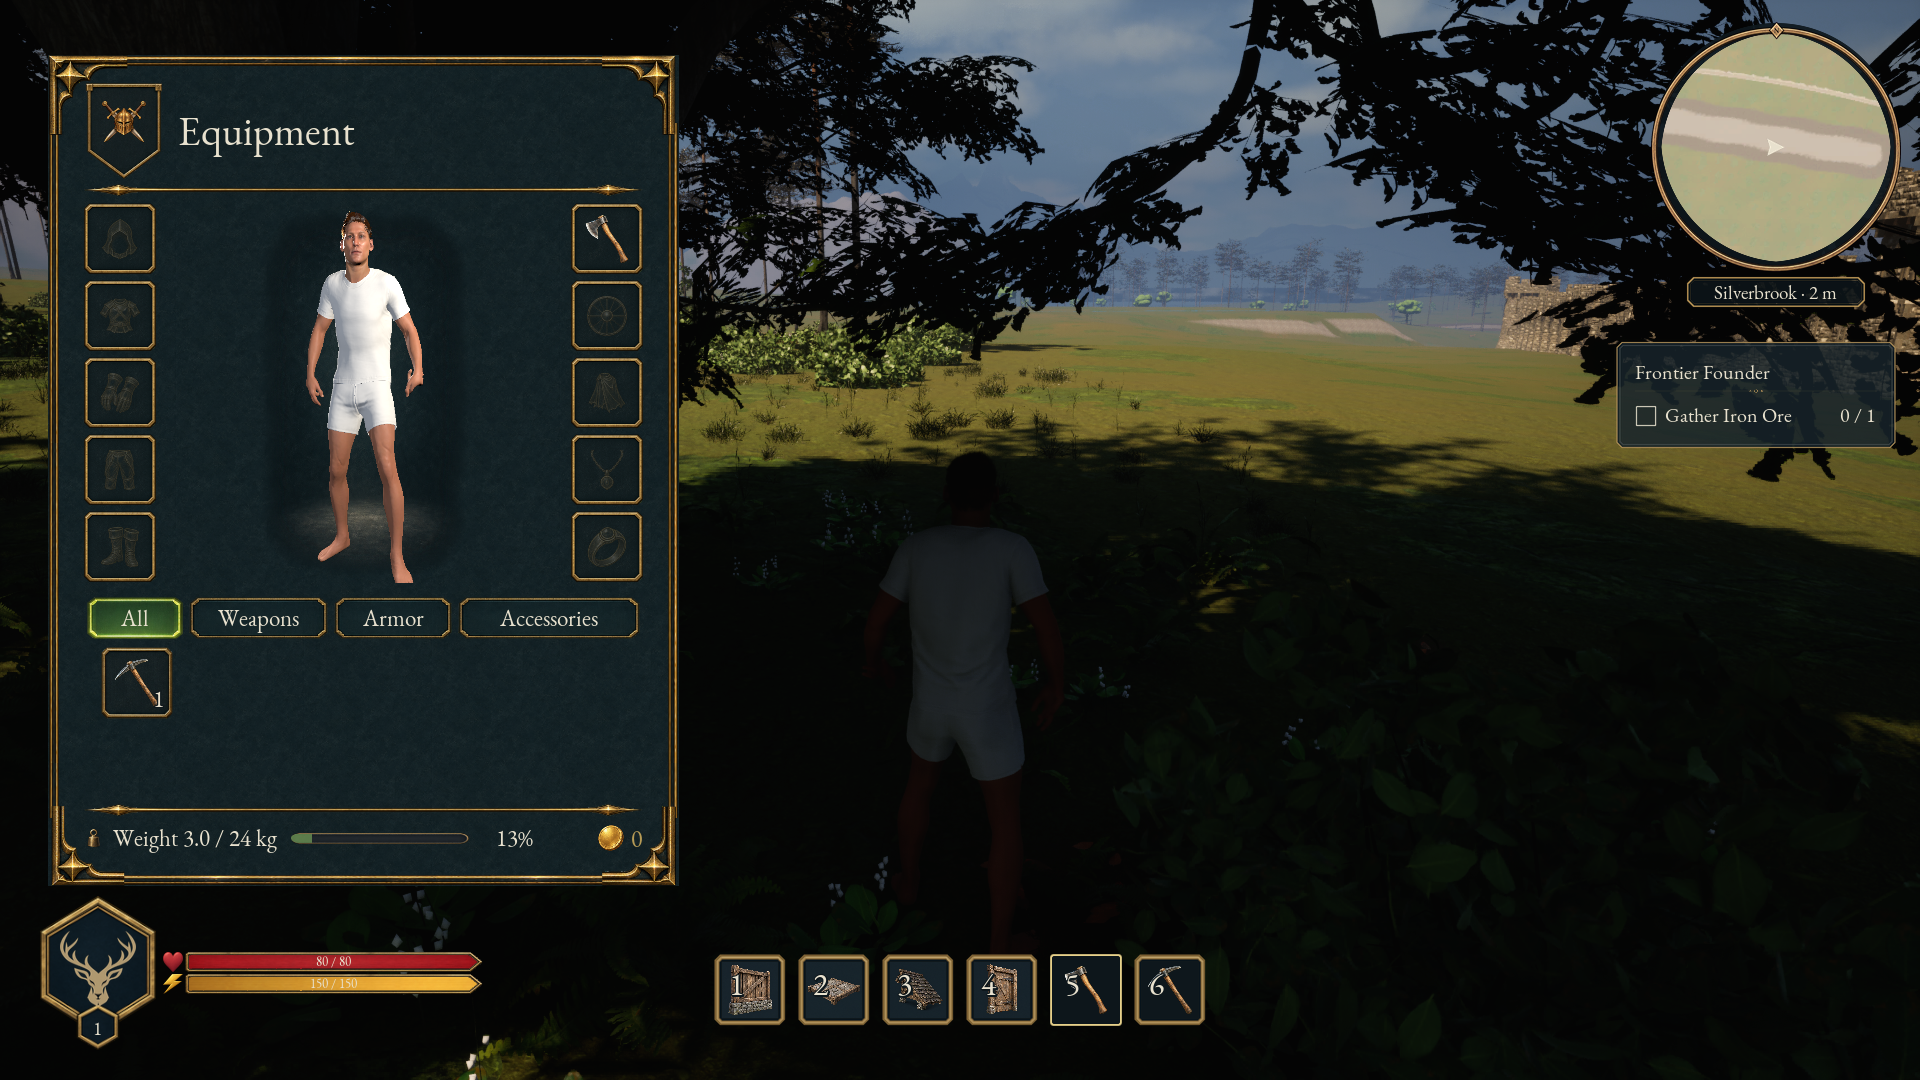
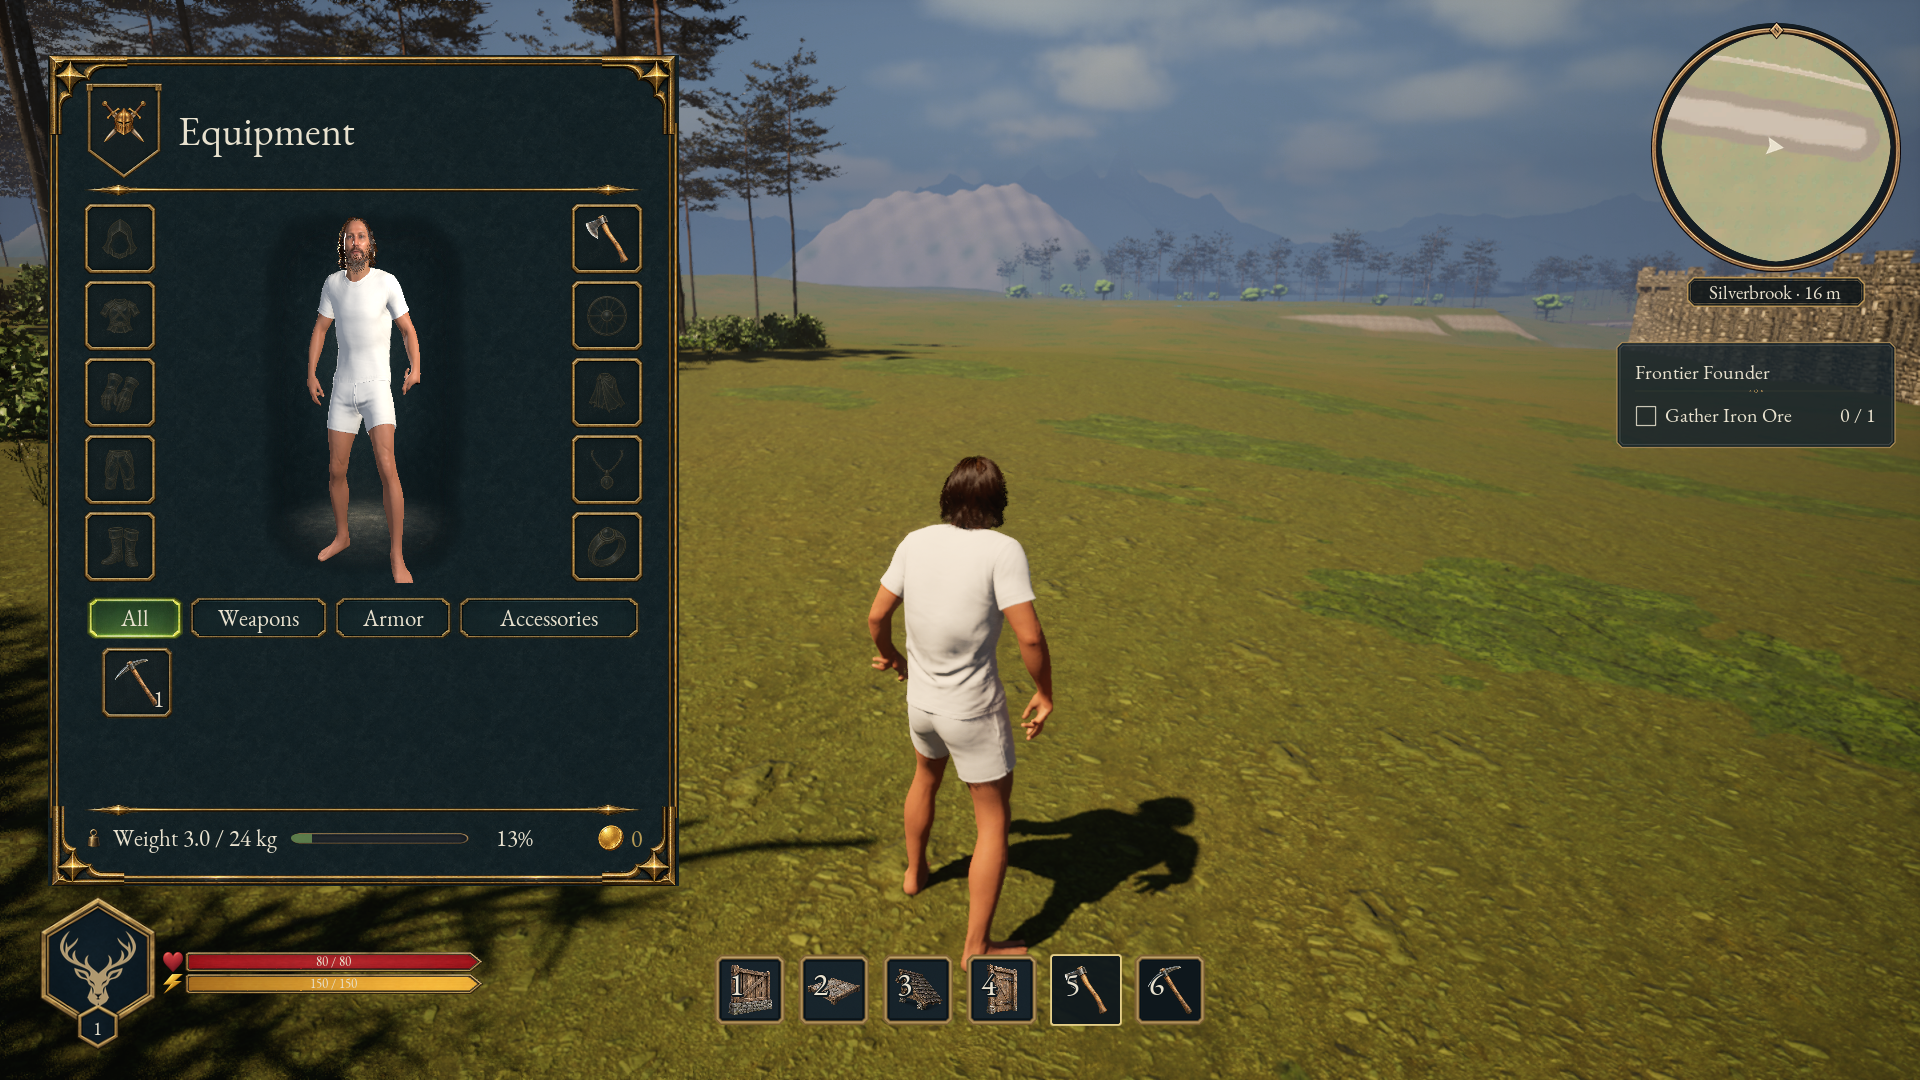
Player faces: hero art direction, 10 generated hero portraits, beard and mustache grooms
- Owner direction: early-medieval Anglo-Saxon / Northern European heroes. Per gender, all faces are
  Caucasian except one light-skinned Black hero. Stock presets that don't fit are out.
- heroes/: 10 Codex-generated front-facing reference portraits (5 men, 5 women) plus a contact
  sheet, the inputs for custom MetaHuman faces (portrait -> Pixal3D head -> MetaHuman conform).
- Build-PlayerMetaHumans.py: faces.json can name hair, beard and mustache wardrobe items; unlisted
  facial hair is cleared. Orlando rebuilt with Hair_M_Layered, Beard_L_Full and Mustache_L_Full.

diff --git a/tools/Build-PlayerMetaHumans.py b/tools/Build-PlayerMetaHumans.py
@@ -5,9 +5,9 @@ fails with "Couldn't find baked texture"). Run it from PowerShell:
   UnrealEditor.exe <uproject> -RenderOffscreen -unattended -nosplash -ExecCmds="py <abs path of this file>"
 It starts on the editor's first tick, builds, then quits the editor.
 
-Reads GameClient/ArtSource/Characters/Player/faces.json ({"faces": [{"id", "preset", "gender", "hair"}]}).
-Each face's preset is copied to /Game/Frontier/Characters/Player/Faces/MHC_<id> and given its hair (a WI_Hair_* wardrobe
-item). MetaHuman's cloud auto-rig and texture download run only when the copy cannot build yet (they use the editor's
+Reads GameClient/ArtSource/Characters/Player/faces.json ({"faces": [{"id", "preset", "gender", "hair", "beard", "mustache"}]}).
+Each face's preset is copied to /Game/Frontier/Characters/Player/Faces/MHC_<id> and given its grooms (WI_* wardrobe
+items). MetaHuman's cloud auto-rig and texture download run only when the copy cannot build yet (they use the editor's
 signed-in Epic account). The optimized, medium-quality assembly goes to /Game/Frontier/Characters/Player/Built/MHC_<id>,
 with shared assets in .../Built/Common. Env SF_FACES=<id,id> limits the run. Logs PLAYER_METAHUMAN_BUILT / _FAILED.
 """
@@ -19,7 +19,7 @@ import unreal
 
 ROOT = '/Game/Frontier/Characters/Player'
 PRESETS = '/MetaHumanCharacter/Optional/Presets'
-HAIR = '/MetaHumanCharacter/Optional/Grooms/Bindings/Hair'
+GROOMS = '/MetaHumanCharacter/Optional/Grooms/Bindings'
 
 
 def build_face(face, subsystem, library):
@@ -30,14 +30,17 @@ def build_face(face, subsystem, library):
         raise RuntimeError(f"Could not copy preset {face['preset']} to {path}")
     instance = character.internal_collection.default_instance
     if fresh:
-        # The face's own grooms: its hair replaces the preset's, and facial hair is cleared unless the face lists it.
-        for slot in ('Beard', 'Mustache'):
-            if slot in [str(s) for s in character.internal_collection.get_slot_names()] and not face.get(slot.lower()):
-                instance.set_single_slot_selection(slot, unreal.MetaHumanPaletteItemKey())
-        if face.get('hair'):
-            item = library.load_asset(f"{HAIR}/{face['hair']}")
-            key = character.internal_collection.try_add_item_from_wardrobe_item('Hair', item)
-            instance.set_single_slot_selection('Hair', key)
+        # The face's own grooms replace the preset's: "hair", "beard", "mustache" name WI_* wardrobe items; a slot not listed is cleared.
+        slots = [str(s) for s in character.internal_collection.get_slot_names()]
+        for slot in ('Hair', 'Beard', 'Mustache'):
+            if slot not in slots:
+                continue
+            wanted = face.get(slot.lower())
+            item = library.load_asset(f"{GROOMS}/{slot}s/{wanted}" if slot != 'Hair' else f"{GROOMS}/Hair/{wanted}") if wanted else None
+            if wanted and item is None:
+                raise RuntimeError(f"Unknown {slot} groom {wanted}")
+            key = character.internal_collection.try_add_item_from_wardrobe_item(slot, item) if item else unreal.MetaHumanPaletteItemKey()
+            instance.set_single_slot_selection(slot, key)
     if not subsystem.try_add_object_to_edit(character=character):
         raise RuntimeError(f'{path} is open for edit elsewhere')
     try:
@@ -88,7 +91,7 @@ def run():
     subsystem = unreal.get_editor_subsystem(unreal.MetaHumanCharacterEditorSubsystem)
     library = unreal.EditorAssetLibrary
     # Plugin content is not in the registry of a fresh run until scanned; duplicate_asset needs it there.
-    unreal.AssetRegistryHelpers.get_asset_registry().scan_paths_synchronous([PRESETS, HAIR], True)
+    unreal.AssetRegistryHelpers.get_asset_registry().scan_paths_synchronous([PRESETS, GROOMS], True)
     for face in faces:
         if only and face['id'] not in only:
             continue

diff --git a/GameClient/ArtSource/Characters/Player/README.md b/GameClient/ArtSource/Characters/Player/README.md
@@ -5,6 +5,7 @@ Owner decisions (2026-10-23):
 - **Bodies:** MetaHuman (UE 5.8 MetaHuman Creator, scripted). There is one base body per gender, shaped by MetaHuman's parametric measurements: Height, Masculine/Feminine, Fat and Muscularity. These match the character creator's height and build controls.
 - **Gear:** each piece is made once and fitted to every body with Mutable (Customizable Objects). Height comes from bone scale, build from baked body blend shapes. Fitted chest armour may get separate male and female fits.
 - **Look:** realistic, age 30s. `reference-starter-male.webp` is the owner's reference sheet: linen tunic with a stitched neckline and rolled sleeves, dark leggings, leather belt with a pouch, wrist wraps and leather boots. It also includes skin tone swatches.
+- **Faces (owner, 2026-10-23):** heroes of the time, with Anglo-Saxon and early-medieval Northern European looks. Think weathered, strong faces; long or tousled hair; full beards, mustaches and braids. See the owner's painting reference of three warriors in hoods, mail and cloaks. Stock MetaHuman presets that don't fit the setting are out. Cast (owner): every face per gender is Caucasian except one, who is a light-skinned Black hero. Custom faces come from generated front-facing hero portraits: Codex portrait, then a Pixal3D head mesh, then MetaHuman `conform_to_target_meshes` with portrait landmarks. Hair, beard and mustache come from MetaHuman's groom library (Beard_L_Full, Beard_L_Messy, Mustache_L_*, Hair_L_*, braids).
 - **New character:** tunic and leggings only. These are the base "underclothes" layer.
 - **Starter set:** belt and pouch, wrist wraps and boots. The first quest (or a short chain) hands these out as rewards, with the last piece at the end of the chain.
 
